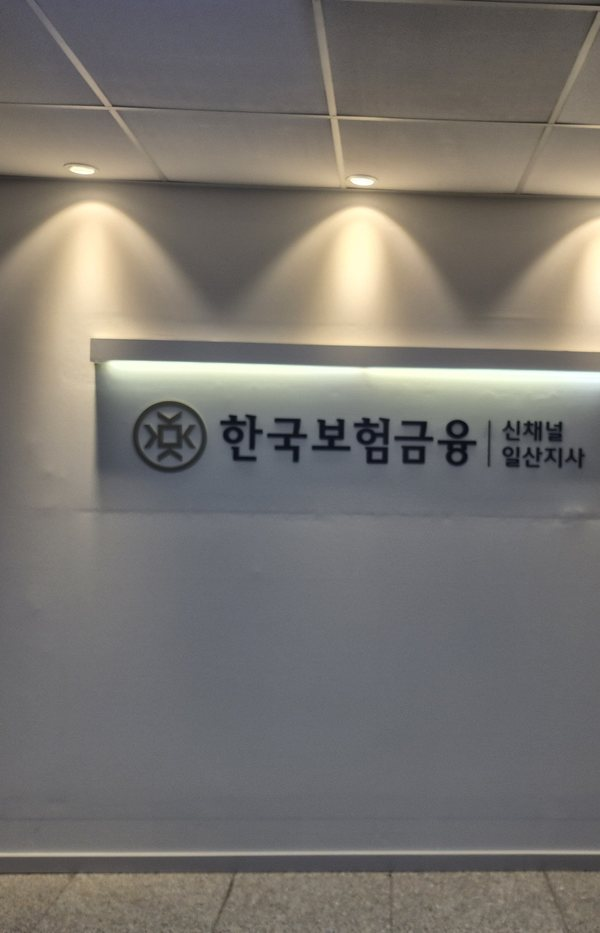
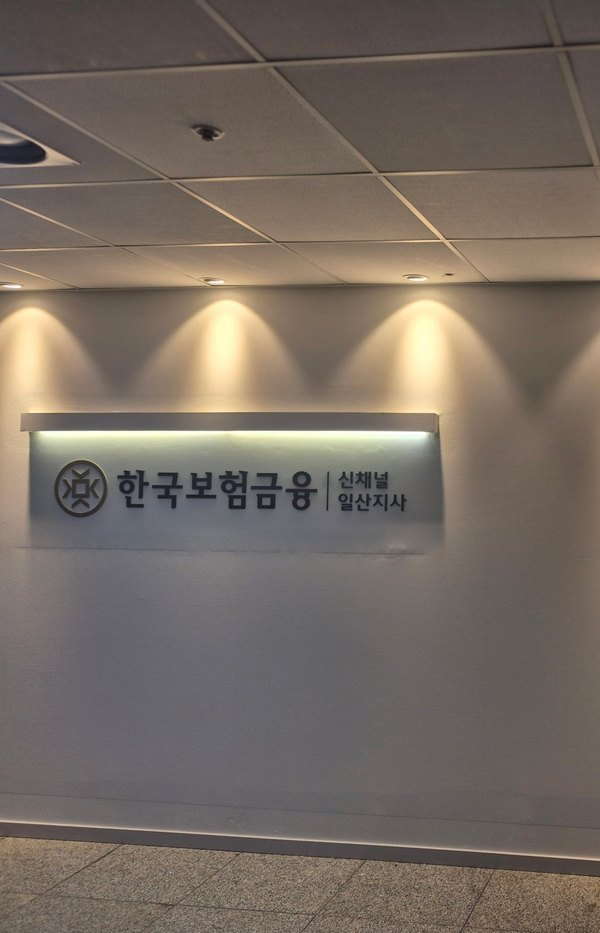
일산지사: 실제 사진 7장으로 지사 공간 갤러리 갱신
Claude-Session: https://claude.ai/code/session_01Jk8wmJVMXKa24WuCp9Kt9f

diff --git a/r2/index.html b/r2/index.html
@@ -2,7 +2,7 @@
 <html lang="ko">
 <head>
 <meta charset="utf-8">
-<script>/* 최신 확인: 올린 뒤 브라우저가 옛 화면을 보여 주면 스스로 최신으로 다시 엽니다 */(function(){var B="20261105173539",p=location.protocol;if(p!=="http:"&&p!=="https:")return;var R=(/\/(v2|r2)\//.test(location.pathname)?"../":"")+"build.txt";function chk(){if(!window.fetch)return;fetch(R+"?t="+Date.now(),{cache:"no-store"}).then(function(r){return r.ok?r.text():""}).then(function(t){t=(t||"").trim();if(!/^\d{14}$/.test(t)||t<=B)return;var q=new URLSearchParams(location.search);if(q.get("b")===t)return;q.set("b",t);location.replace(location.pathname+"?"+q.toString()+location.hash);}).catch(function(){});}chk();document.addEventListener("visibilitychange",function(){if(!document.hidden)chk();});})();</script>
+<script>/* 최신 확인: 올린 뒤 브라우저가 옛 화면을 보여 주면 스스로 최신으로 다시 엽니다 */(function(){var B="20261105174827",p=location.protocol;if(p!=="http:"&&p!=="https:")return;var R=(/\/(v2|r2)\//.test(location.pathname)?"../":"")+"build.txt";function chk(){if(!window.fetch)return;fetch(R+"?t="+Date.now(),{cache:"no-store"}).then(function(r){return r.ok?r.text():""}).then(function(t){t=(t||"").trim();if(!/^\d{14}$/.test(t)||t<=B)return;var q=new URLSearchParams(location.search);if(q.get("b")===t)return;q.set("b",t);location.replace(location.pathname+"?"+q.toString()+location.hash);}).catch(function(){});}chk();document.addEventListener("visibilitychange",function(){if(!document.hidden)chk();});})();</script>
 <meta name="viewport" content="width=device-width, initial-scale=1">
 <title>한국보험금융 신채널 · Career Information Session</title>
 <meta name="description" content="사람(人)을 지원(支)하는 회사, 한국보험금융 신채널. 커리어패스, 신인 지원, 교육, 영업 플랫폼 한보금ON, 모집 안내.">
@@ -2616,12 +2616,12 @@ footer{background:var(--navy-d);color:rgba(255,255,255,.6);font-size:14px;paddin
 /* 간편 지원: 아직 접수처가 연결되지 않아 안내만 띄움 */
 function applyForm(e){e.preventDefault();var t=document.getElementById('toast');t.textContent='초안 화면입니다. 접수처(구글 폼 등)를 연결하면 실제로 신청됩니다.';t.classList.add('show');setTimeout(function(){t.classList.remove('show')},3500);return false;}
 </script>
-<script src="../js/sound.js?b=20261105173539"></script>
-<script src="../js/branches.js?b=20261105173539"></script>
-<script src="../js/korea-map.js?b=20261105173539"></script>
-<script src="../js/kmap.js?b=20261105173539"></script>
-<script src="../js/reveal-lib.js?b=20261105173539"></script>
-<script src="../js/present.js?b=20261105173539"></script>
+<script src="../js/sound.js?b=20261105174827"></script>
+<script src="../js/branches.js?b=20261105174827"></script>
+<script src="../js/korea-map.js?b=20261105174827"></script>
+<script src="../js/kmap.js?b=20261105174827"></script>
+<script src="../js/reveal-lib.js?b=20261105174827"></script>
+<script src="../js/present.js?b=20261105174827"></script>
 <script>
 /* 당신 곁에 한국보험금융: 지도 2개 + 지사 카드 (카드 ↔ 지도 점 함께 강조) */
 (function(){

diff --git a/index.html b/index.html
@@ -2,7 +2,7 @@
 <html lang="ko">
 <head>
 <meta charset="utf-8">
-<script>/* 최신 확인: 올린 뒤 브라우저가 옛 화면을 보여 주면 스스로 최신으로 다시 엽니다 */(function(){var B="20261105173539",p=location.protocol;if(p!=="http:"&&p!=="https:")return;var R=(/\/(v2|r2)\//.test(location.pathname)?"../":"")+"build.txt";function chk(){if(!window.fetch)return;fetch(R+"?t="+Date.now(),{cache:"no-store"}).then(function(r){return r.ok?r.text():""}).then(function(t){t=(t||"").trim();if(!/^\d{14}$/.test(t)||t<=B)return;var q=new URLSearchParams(location.search);if(q.get("b")===t)return;q.set("b",t);location.replace(location.pathname+"?"+q.toString()+location.hash);}).catch(function(){});}chk();document.addEventListener("visibilitychange",function(){if(!document.hidden)chk();});})();</script>
+<script>/* 최신 확인: 올린 뒤 브라우저가 옛 화면을 보여 주면 스스로 최신으로 다시 엽니다 */(function(){var B="20261105174827",p=location.protocol;if(p!=="http:"&&p!=="https:")return;var R=(/\/(v2|r2)\//.test(location.pathname)?"../":"")+"build.txt";function chk(){if(!window.fetch)return;fetch(R+"?t="+Date.now(),{cache:"no-store"}).then(function(r){return r.ok?r.text():""}).then(function(t){t=(t||"").trim();if(!/^\d{14}$/.test(t)||t<=B)return;var q=new URLSearchParams(location.search);if(q.get("b")===t)return;q.set("b",t);location.replace(location.pathname+"?"+q.toString()+location.hash);}).catch(function(){});}chk();document.addEventListener("visibilitychange",function(){if(!document.hidden)chk();});})();</script>
 <meta name="viewport" content="width=device-width, initial-scale=1">
 <title>한국보험금융 신채널</title>
 <meta name="description" content="사람(人)을 지원(支)하는 회사, 한국보험금융 신채널. 커리어패스, 신인 지원, 교육, 영업 플랫폼 한보금ON, 모집 안내.">
@@ -2485,12 +2485,12 @@ footer{background:var(--navy-d);color:rgba(255,255,255,.6);font-size:14px;paddin
 /* 간편 지원: 아직 접수처가 연결되지 않아 안내만 띄움 */
 function applyForm(e){e.preventDefault();var t=document.getElementById('toast');t.textContent='초안 화면입니다. 접수처(구글 폼 등)를 연결하면 실제로 신청됩니다.';t.classList.add('show');setTimeout(function(){t.classList.remove('show')},3500);return false;}
 </script>
-<script src="js/sound.js?b=20261105173539"></script>
-<script src="js/branches.js?b=20261105173539"></script>
-<script src="js/korea-map.js?b=20261105173539"></script>
-<script src="js/kmap.js?b=20261105173539"></script>
-<script src="js/reveal-lib.js?b=20261105173539"></script>
-<script src="js/present.js?b=20261105173539"></script>
+<script src="js/sound.js?b=20261105174827"></script>
+<script src="js/branches.js?b=20261105174827"></script>
+<script src="js/korea-map.js?b=20261105174827"></script>
+<script src="js/kmap.js?b=20261105174827"></script>
+<script src="js/reveal-lib.js?b=20261105174827"></script>
+<script src="js/present.js?b=20261105174827"></script>
 <script>
 /* 당신 곁에 한국보험금융: 지도 2개 + 지사 카드 (카드 ↔ 지도 점 함께 강조) */
 (function(){

diff --git a/v2/index.html b/v2/index.html
@@ -2,7 +2,7 @@
 <html lang="ko">
 <head>
 <meta charset="utf-8">
-<script>/* 최신 확인: 올린 뒤 브라우저가 옛 화면을 보여 주면 스스로 최신으로 다시 엽니다 */(function(){var B="20261105173539",p=location.protocol;if(p!=="http:"&&p!=="https:")return;var R=(/\/(v2|r2)\//.test(location.pathname)?"../":"")+"build.txt";function chk(){if(!window.fetch)return;fetch(R+"?t="+Date.now(),{cache:"no-store"}).then(function(r){return r.ok?r.text():""}).then(function(t){t=(t||"").trim();if(!/^\d{14}$/.test(t)||t<=B)return;var q=new URLSearchParams(location.search);if(q.get("b")===t)return;q.set("b",t);location.replace(location.pathname+"?"+q.toString()+location.hash);}).catch(function(){});}chk();document.addEventListener("visibilitychange",function(){if(!document.hidden)chk();});})();</script>
+<script>/* 최신 확인: 올린 뒤 브라우저가 옛 화면을 보여 주면 스스로 최신으로 다시 엽니다 */(function(){var B="20261105174827",p=location.protocol;if(p!=="http:"&&p!=="https:")return;var R=(/\/(v2|r2)\//.test(location.pathname)?"../":"")+"build.txt";function chk(){if(!window.fetch)return;fetch(R+"?t="+Date.now(),{cache:"no-store"}).then(function(r){return r.ok?r.text():""}).then(function(t){t=(t||"").trim();if(!/^\d{14}$/.test(t)||t<=B)return;var q=new URLSearchParams(location.search);if(q.get("b")===t)return;q.set("b",t);location.replace(location.pathname+"?"+q.toString()+location.hash);}).catch(function(){});}chk();document.addEventListener("visibilitychange",function(){if(!document.hidden)chk();});})();</script>
 <meta name="viewport" content="width=device-width, initial-scale=1">
 <title>한국보험금융 신채널</title>
 <meta name="description" content="2002년부터 이어 온 한국보험금융, 그 위에서 2025년 출발한 신채널. 회사 소개, 신채널의 이념과 특징, 영업 시스템, Career Path, 지사 소개, 모집 안내.">
@@ -2530,12 +2530,12 @@ footer{background:var(--navy-d);color:rgba(255,255,255,.6);padding:56px 0 40px;f
 
 function applyForm(e){e.preventDefault();var t=document.getElementById('toast');t.textContent='초안 화면입니다. 접수처(구글 폼 등)를 연결하면 실제로 신청됩니다.';t.classList.add('show');setTimeout(function(){t.classList.remove('show')},3500);return false;}
 </script>
-<script src="../js/sound.js?b=20261105173539"></script>
-<script src="../js/branches.js?b=20261105173539"></script>
-<script src="../js/korea-map.js?b=20261105173539"></script>
-<script src="../js/kmap.js?b=20261105173539"></script>
-<script src="../js/reveal-lib.js?b=20261105173539"></script>
-<script src="../js/present.js?b=20261105173539"></script>
+<script src="../js/sound.js?b=20261105174827"></script>
+<script src="../js/branches.js?b=20261105174827"></script>
+<script src="../js/korea-map.js?b=20261105174827"></script>
+<script src="../js/kmap.js?b=20261105174827"></script>
+<script src="../js/reveal-lib.js?b=20261105174827"></script>
+<script src="../js/present.js?b=20261105174827"></script>
 <script>
 /* 지사 소개: 지도 2개 + 지사 카드 */
 (function(){

diff --git a/branches.html b/branches.html
@@ -2,7 +2,7 @@
 <html lang="ko">
 <head>
 <meta charset="utf-8">
-<script>/* 최신 확인: 올린 뒤 브라우저가 옛 화면을 보여 주면 스스로 최신으로 다시 엽니다 */(function(){var B="20261105173539",p=location.protocol;if(p!=="http:"&&p!=="https:")return;var R=(/\/(v2|r2)\//.test(location.pathname)?"../":"")+"build.txt";function chk(){if(!window.fetch)return;fetch(R+"?t="+Date.now(),{cache:"no-store"}).then(function(r){return r.ok?r.text():""}).then(function(t){t=(t||"").trim();if(!/^\d{14}$/.test(t)||t<=B)return;var q=new URLSearchParams(location.search);if(q.get("b")===t)return;q.set("b",t);location.replace(location.pathname+"?"+q.toString()+location.hash);}).catch(function(){});}chk();document.addEventListener("visibilitychange",function(){if(!document.hidden)chk();});})();</script>
+<script>/* 최신 확인: 올린 뒤 브라우저가 옛 화면을 보여 주면 스스로 최신으로 다시 엽니다 */(function(){var B="20261105174827",p=location.protocol;if(p!=="http:"&&p!=="https:")return;var R=(/\/(v2|r2)\//.test(location.pathname)?"../":"")+"build.txt";function chk(){if(!window.fetch)return;fetch(R+"?t="+Date.now(),{cache:"no-store"}).then(function(r){return r.ok?r.text():""}).then(function(t){t=(t||"").trim();if(!/^\d{14}$/.test(t)||t<=B)return;var q=new URLSearchParams(location.search);if(q.get("b")===t)return;q.set("b",t);location.replace(location.pathname+"?"+q.toString()+location.hash);}).catch(function(){});}chk();document.addEventListener("visibilitychange",function(){if(!document.hidden)chk();});})();</script>
 <meta name="viewport" content="width=device-width, initial-scale=1">
 <title>지사 소개 | 한국보험금융 신채널</title>
 <meta name="description" content="한국보험금융 신채널 전국 지사 위치와 명단. 지사를 누르면 지사별 소개 페이지로 이동합니다.">
@@ -20,7 +20,7 @@
 <link rel="preconnect" href="https://fonts.googleapis.com">
 <link rel="preconnect" href="https://fonts.gstatic.com" crossorigin>
 <link href="https://fonts.googleapis.com/css2?family=Gothic+A1:wght@700;800&family=IBM+Plex+Sans+KR:wght@400;500;700&display=swap" rel="stylesheet">
-<link rel="stylesheet" href="css/branch.css?b=20261105173539">
+<link rel="stylesheet" href="css/branch.css?b=20261105174827">
 </head>
 <body>
 <header>
@@ -65,9 +65,9 @@
   <div class="wrap"><b>한국보험금융(주)</b> · 서울 용산구 한강대로 257, 14층(갈월동, 청룡빌딩) · TEL 02-771-5050</div>
 </footer>
 
-<script src="js/korea-map.js?b=20261105173539"></script>
-<script src="js/kmap.js?b=20261105173539"></script>
-<script src="js/branches.js?b=20261105173539"></script>
+<script src="js/korea-map.js?b=20261105174827"></script>
+<script src="js/kmap.js?b=20261105174827"></script>
+<script src="js/branches.js?b=20261105174827"></script>
 <script>
 (function(){
   var B = (window.BRANCHES || []).slice().sort(function(a,b){return (a.no||99)-(b.no||99)});

diff --git a/branch.html b/branch.html
@@ -2,7 +2,7 @@
 <html lang="ko">
 <head>
 <meta charset="utf-8">
-<script>/* 최신 확인: 올린 뒤 브라우저가 옛 화면을 보여 주면 스스로 최신으로 다시 엽니다 */(function(){var B="20261105173539",p=location.protocol;if(p!=="http:"&&p!=="https:")return;var R=(/\/(v2|r2)\//.test(location.pathname)?"../":"")+"build.txt";function chk(){if(!window.fetch)return;fetch(R+"?t="+Date.now(),{cache:"no-store"}).then(function(r){return r.ok?r.text():""}).then(function(t){t=(t||"").trim();if(!/^\d{14}$/.test(t)||t<=B)return;var q=new URLSearchParams(location.search);if(q.get("b")===t)return;q.set("b",t);location.replace(location.pathname+"?"+q.toString()+location.hash);}).catch(function(){});}chk();document.addEventListener("visibilitychange",function(){if(!document.hidden)chk();});})();</script>
+<script>/* 최신 확인: 올린 뒤 브라우저가 옛 화면을 보여 주면 스스로 최신으로 다시 엽니다 */(function(){var B="20261105174827",p=location.protocol;if(p!=="http:"&&p!=="https:")return;var R=(/\/(v2|r2)\//.test(location.pathname)?"../":"")+"build.txt";function chk(){if(!window.fetch)return;fetch(R+"?t="+Date.now(),{cache:"no-store"}).then(function(r){return r.ok?r.text():""}).then(function(t){t=(t||"").trim();if(!/^\d{14}$/.test(t)||t<=B)return;var q=new URLSearchParams(location.search);if(q.get("b")===t)return;q.set("b",t);location.replace(location.pathname+"?"+q.toString()+location.hash);}).catch(function(){});}chk();document.addEventListener("visibilitychange",function(){if(!document.hidden)chk();});})();</script>
 <meta name="viewport" content="width=device-width, initial-scale=1">
 <title>지사 소개 | 한국보험금융 신채널</title>
 <link rel="icon" href="img/favicon.ico" sizes="any">
@@ -17,7 +17,7 @@
 <link rel="preconnect" href="https://fonts.googleapis.com">
 <link rel="preconnect" href="https://fonts.gstatic.com" crossorigin>
 <link href="https://fonts.googleapis.com/css2?family=Gothic+A1:wght@700;800&family=IBM+Plex+Sans+KR:wght@400;500;700&display=swap" rel="stylesheet">
-<link rel="stylesheet" href="css/branch.css?b=20261105173539">
+<link rel="stylesheet" href="css/branch.css?b=20261105174827">
 </head>
 <body>
 <header>
@@ -33,8 +33,8 @@
   <div class="wrap"><b>한국보험금융(주)</b> · 서울 용산구 한강대로 257, 14층(갈월동, 청룡빌딩) · TEL 02-771-5050</div>
 </footer>
 
-<script src="js/korea-map.js?b=20261105173539"></script>
-<script src="js/branches.js?b=20261105173539"></script>
+<script src="js/korea-map.js?b=20261105174827"></script>
+<script src="js/branches.js?b=20261105174827"></script>
 <script>
 (function(){
   var esc = function(s){return String(s||'').replace(/[&<>"]/g,function(c){return {'&':'&amp;','<':'&lt;','>':'&gt;','"':'&quot;'}[c]})};

diff --git a/js/branches.js b/js/branches.js
@@ -84,10 +84,14 @@ window.BRANCHES = [
     hero: 'img/ilsan/hero.jpg',   // 첫 화면 배경
     spaces: [
       { tag: 'WELCOME', t: '한국보험금융 신채널 일산지사', d: '백석역 2번 출구 앞, 세련된 입구', img: 'img/ilsan/g01.jpg' },
-      { tag: 'INFO DESK', t: '고마운 사람, 일산지사', d: '“당신은 당당한 전문가입니다”', img: 'img/ilsan/g02.jpg' },
-      { tag: 'OUR SLOGAN', t: '사랑과 행복이 넘치는 신채널 일산지사', d: '“나의 전문성은 고객을 위한 최소한의 배려다”', img: 'img/ilsan/g03.jpg' }
+      { tag: 'OUR SLOGAN', t: '사랑과 행복이 넘치는 신채널 일산지사', d: '“나의 전문성은 고객을 위한 최소한의 배려다”', img: 'img/ilsan/g02.jpg' },
+      { tag: 'INFO DESK', t: '고마운 사람, 일산지사', d: '“당신은 당당한 전문가입니다”', img: 'img/ilsan/g03.jpg' },
+      { tag: 'WORKSPACE', t: '당신이 꿈꾸는 행복한 미래', d: '넓고 밝은 업무 공간, 개인 업무석과 공용 PC석', img: 'img/ilsan/g04.jpg' },
+      { tag: 'OPEN OFFICE', t: '함께 일하는 오픈 오피스', d: '개인 업무석 · 프로젝터 · 화이트보드', img: 'img/ilsan/g05.jpg' },
+      { tag: 'FOCUS', t: '영업에만 집중하는 업무 환경', d: '프린터와 사무용품을 갖춘 공용 데스크', img: 'img/ilsan/g06.jpg' },
+      { tag: 'MEETING ROOM', t: '마주 앉아 이야기 나누는 미팅룸', d: '상담 테이블과 탕비 공간', img: 'img/ilsan/g07.jpg' }
     ],
-    closing: { t: '이제, 당신의 차례입니다', d: '더 큰 무대가 당신을 기다립니다', img: 'img/ilsan/g04.jpg' }
+    closing: { t: '이제, 당신의 차례입니다', d: '더 큰 무대가 당신을 기다립니다', img: 'img/ilsan/g08.jpg' }
   }
   ,{
     no: 3, id: 'thedream',
